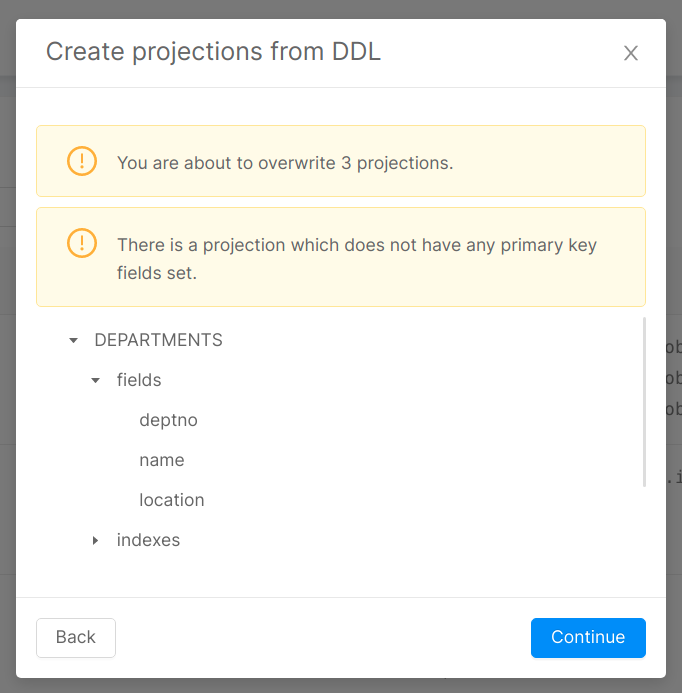
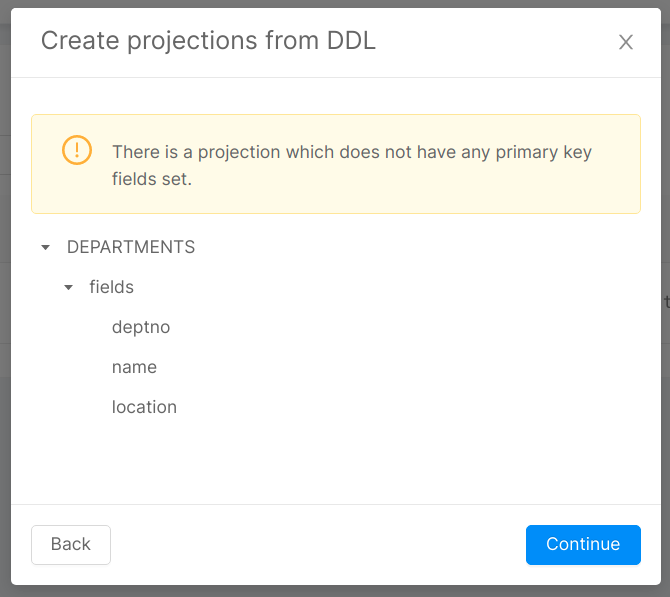
edit: ddl import overwrite and merge

diff --git a/docs/fast_data/create_projection.md b/docs/fast_data/create_projection.md
@@ -201,11 +201,7 @@ Keep in mind that `supported` means you will be able to generate projections cor
 In the last step you will be presented with a recap of what you are about to import. A tree view of projections will be displayed, each projection having fields and indexes as children. For fields, only the names of the custom fields will be displayed, and for the indexes only the name of the indexes.
 This page will also warn you about possible problems in the configuration, so read the warnings carefully and remember to take action when needed (e.g. missing primary key).
 
-When you click continue, the console will generate the new configuration for the System, which you can explore the result of the import directly from the console. If you are happy with the result as it is, you can directly commit, and it will be saved in the configuration, otherwise you can freely edit the generated projections as you normally do, and then commit.
-
-:::warning
-If your system already has some projections, those will be completely deleted when importing the new ones. If this is the case, you will be promped with a warning.
-:::
+When you click continue, the console will generate the new configuration for the System, which you can explore the result of the import directly from the console. If you are happy with the result as it is, you can directly commit, and it will be saved in the configuration, otherwise you can freely edit the generated projections as you normally do, and then commit. Any previous Projections with different name will remain untouched, while projections with the same name will be overwritten.
 
 ![Tree view modal page](img/importDDL/tree_view_modal_page.png)
 
